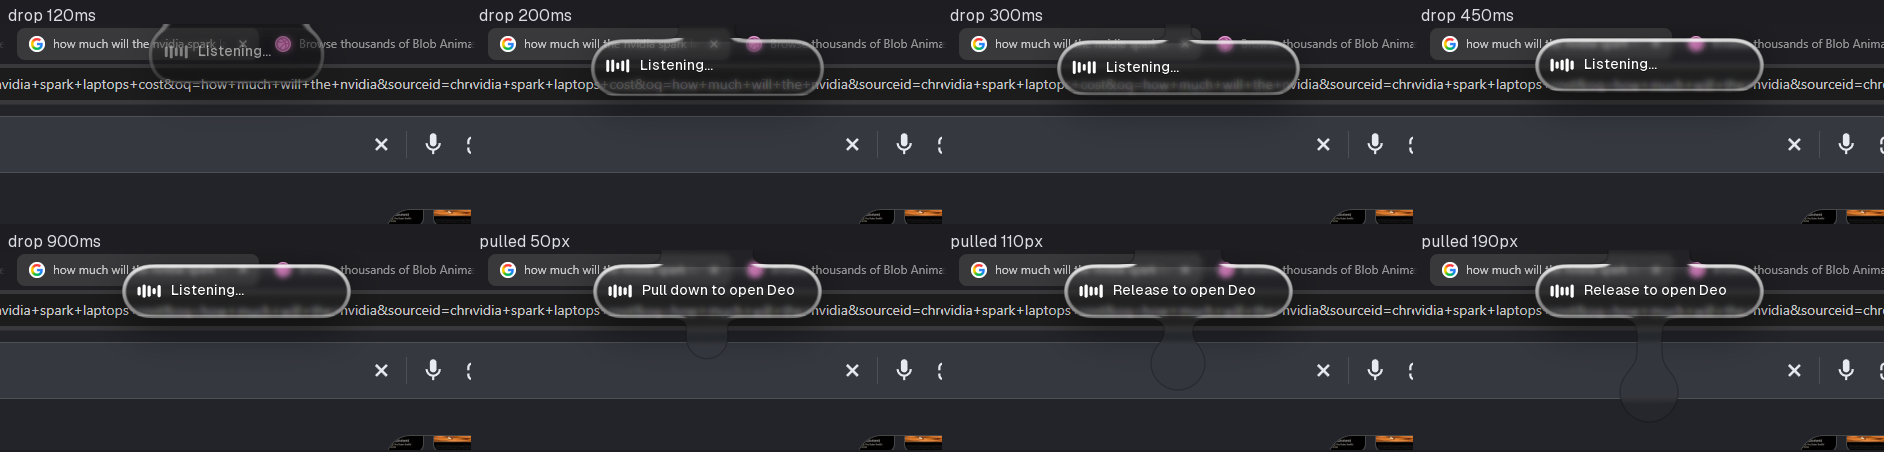
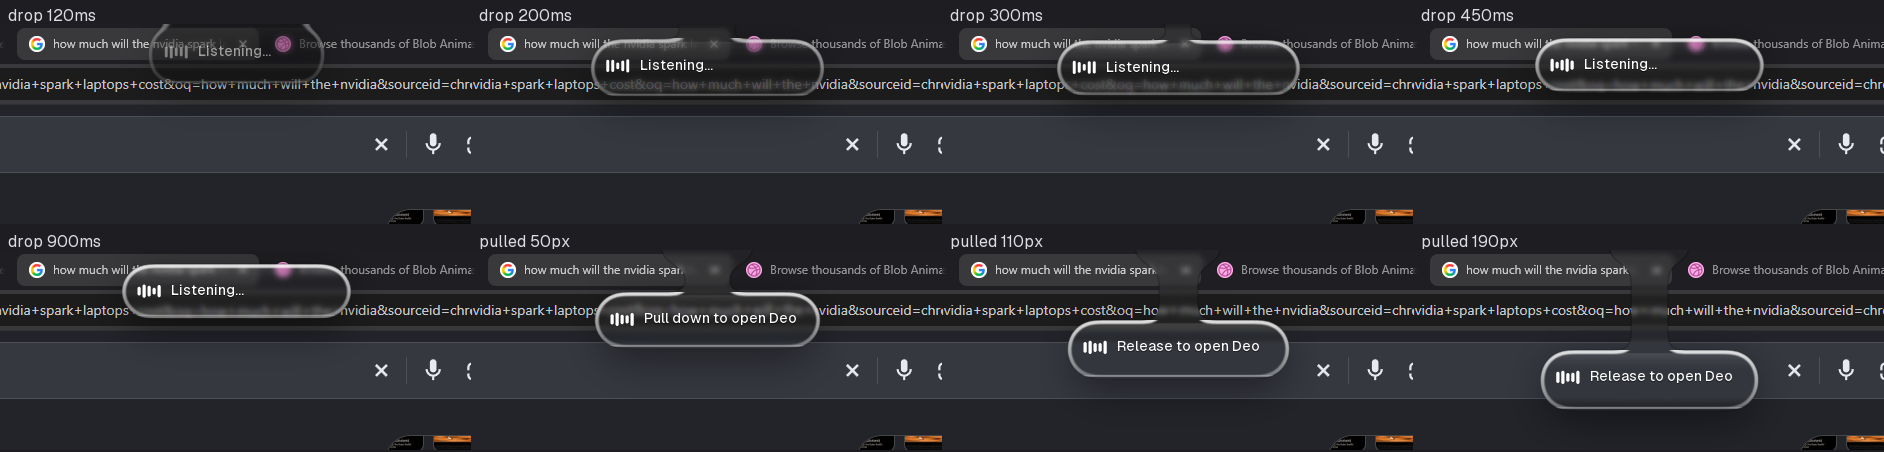
Island: pulling moves the whole island down (no hanging droplet)

diff --git a/deo/island.py b/deo/island.py
@@ -434,8 +434,7 @@ class Island:
 
           dropping in : the pill hangs from the top edge of the screen on a
                         neck that thins and snaps ~0.4s after it appears
-          pulled      : a droplet of glass stretches down below the pill on a
-                        neck that thins the further you pull
+          (being pulled moves the whole island down -- see _draw)
         """
         s, W, H = self.s, self.W, self.H
         base = Image.new("L", (W, H), 0)
@@ -451,14 +450,6 @@ class Island:
                                 neck / 2, fill=255)
             rw = neck * 2.6                                   # the reservoir at the screen edge
             d.ellipse((cx - rw / 2, -rw * 0.55, cx + rw / 2, rw * 0.22), fill=255)
-
-        if pull > 2 * s:
-            grow = min(1.0, pull / (70 * s))
-            r = min((box[3] - box[1]) * 0.55, 30 * s) * (0.55 + 0.45 * grow)
-            by = box[3] + pull - r * 0.4                      # the droplet hangs below the pill
-            d.ellipse((cx - r, by - r, cx + r, by + r), fill=255)
-            stem = r * 1.25 * max(0.28, 1 - pull / (260 * s))  # thins as it stretches
-            d.rounded_rectangle((cx - stem / 2, box[3] - radius, cx + stem / 2, by), stem / 2, fill=255)
 
         field = _soft(base, 7 * s)
         return field.point(_LUT_BODY), field.point(_LUT_INSET)
@@ -557,7 +548,12 @@ class Island:
         # squash & stretch: a moving drop gets taller and thinner, then squashes
         st = max(-0.16, min(0.3, self.y.velocity / (1500 * s)))
         h, w = h * (1 + st), w * (1 - st * 0.45)
+        # being pulled: the whole island follows the cursor down, stretching a
+        # little (a hanging droplet was tried and didn't look right)
         pull = max(0.0, self.pull.value)
+        y += pull
+        h *= 1 + min(0.12, pull / (800 * s))
+        w *= 1 - min(0.05, pull / (1600 * s))
         x0 = (W - w) / 2
         box = (x0, y, x0 + w, y + h)
         frame = Image.new("RGBA", (W, H), (0, 0, 0, 0))
